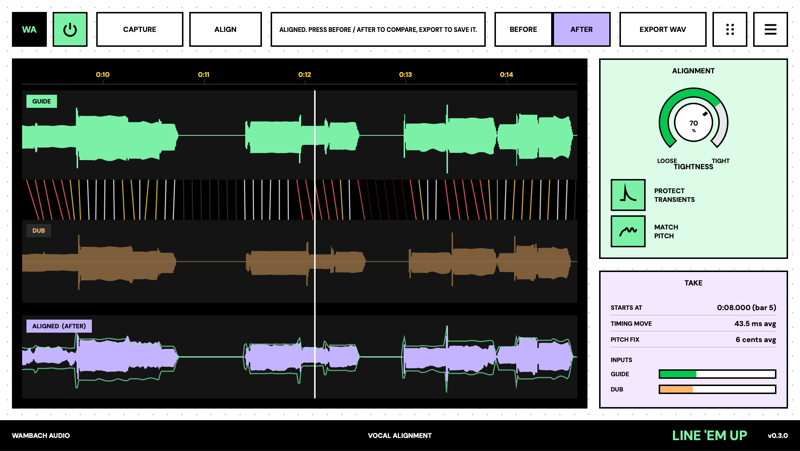
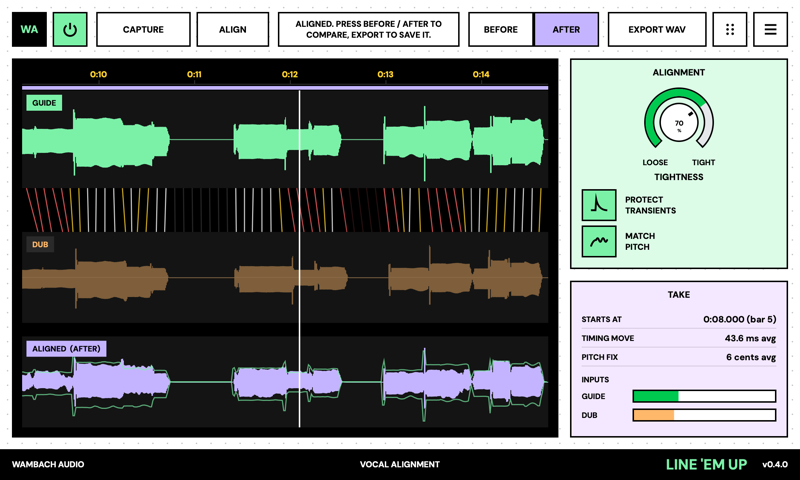
Line 'Em Up 0.4.0: punch-in, new screenshot

diff --git a/README.md b/README.md
@@ -53,8 +53,9 @@ hosts (Studio One, Cubase, Logic Pro, Reaper) put it on both tracks, pick
 the lead as the guide and press Align. In any other DAW, send the lead to
 its sidechain and capture the section first. Optionally it matches the lead's
 pitch contour too, keeping the harmony's interval. Compare before and after,
-then export it or drag it back into your session. Plugin only, no standalone
-app.
+then export it or drag it back into your session. Fix just one spot by
+capturing over it again: only what changed gets re-aligned. Plugin only, no
+standalone app.
 
 <img src="images/line-em-up.png" alt="Line 'Em Up" width="600">
 
